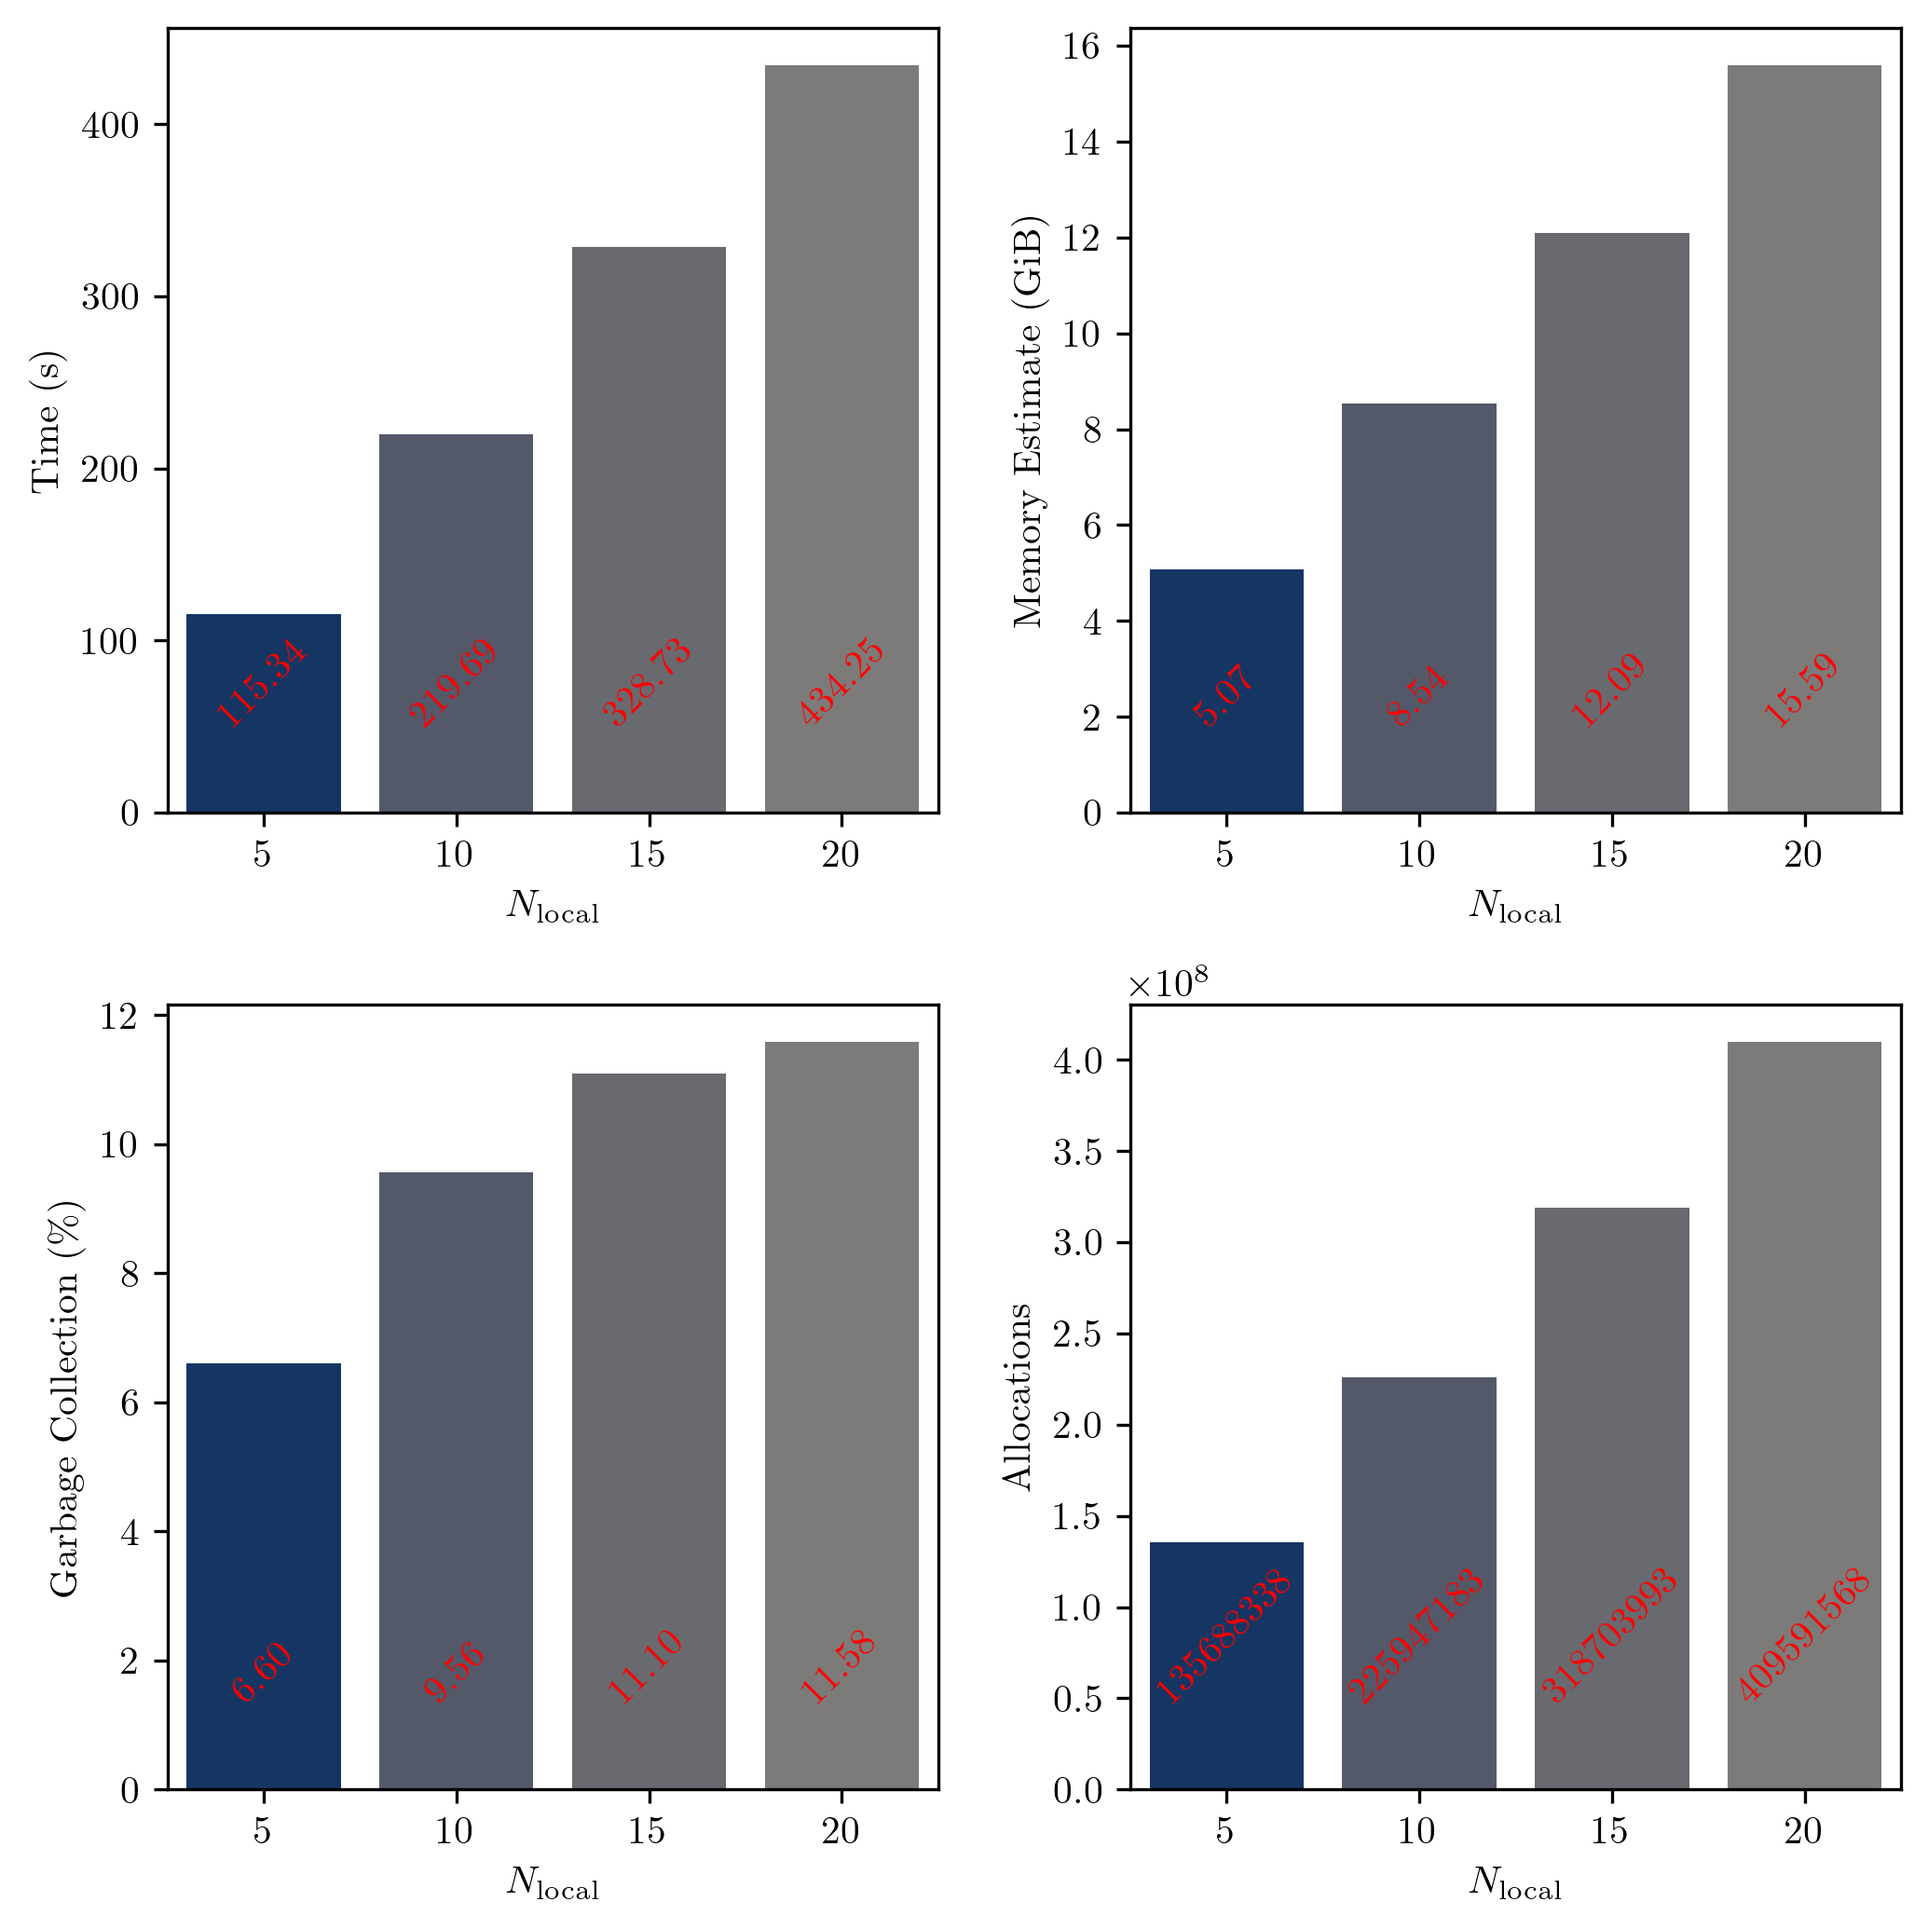
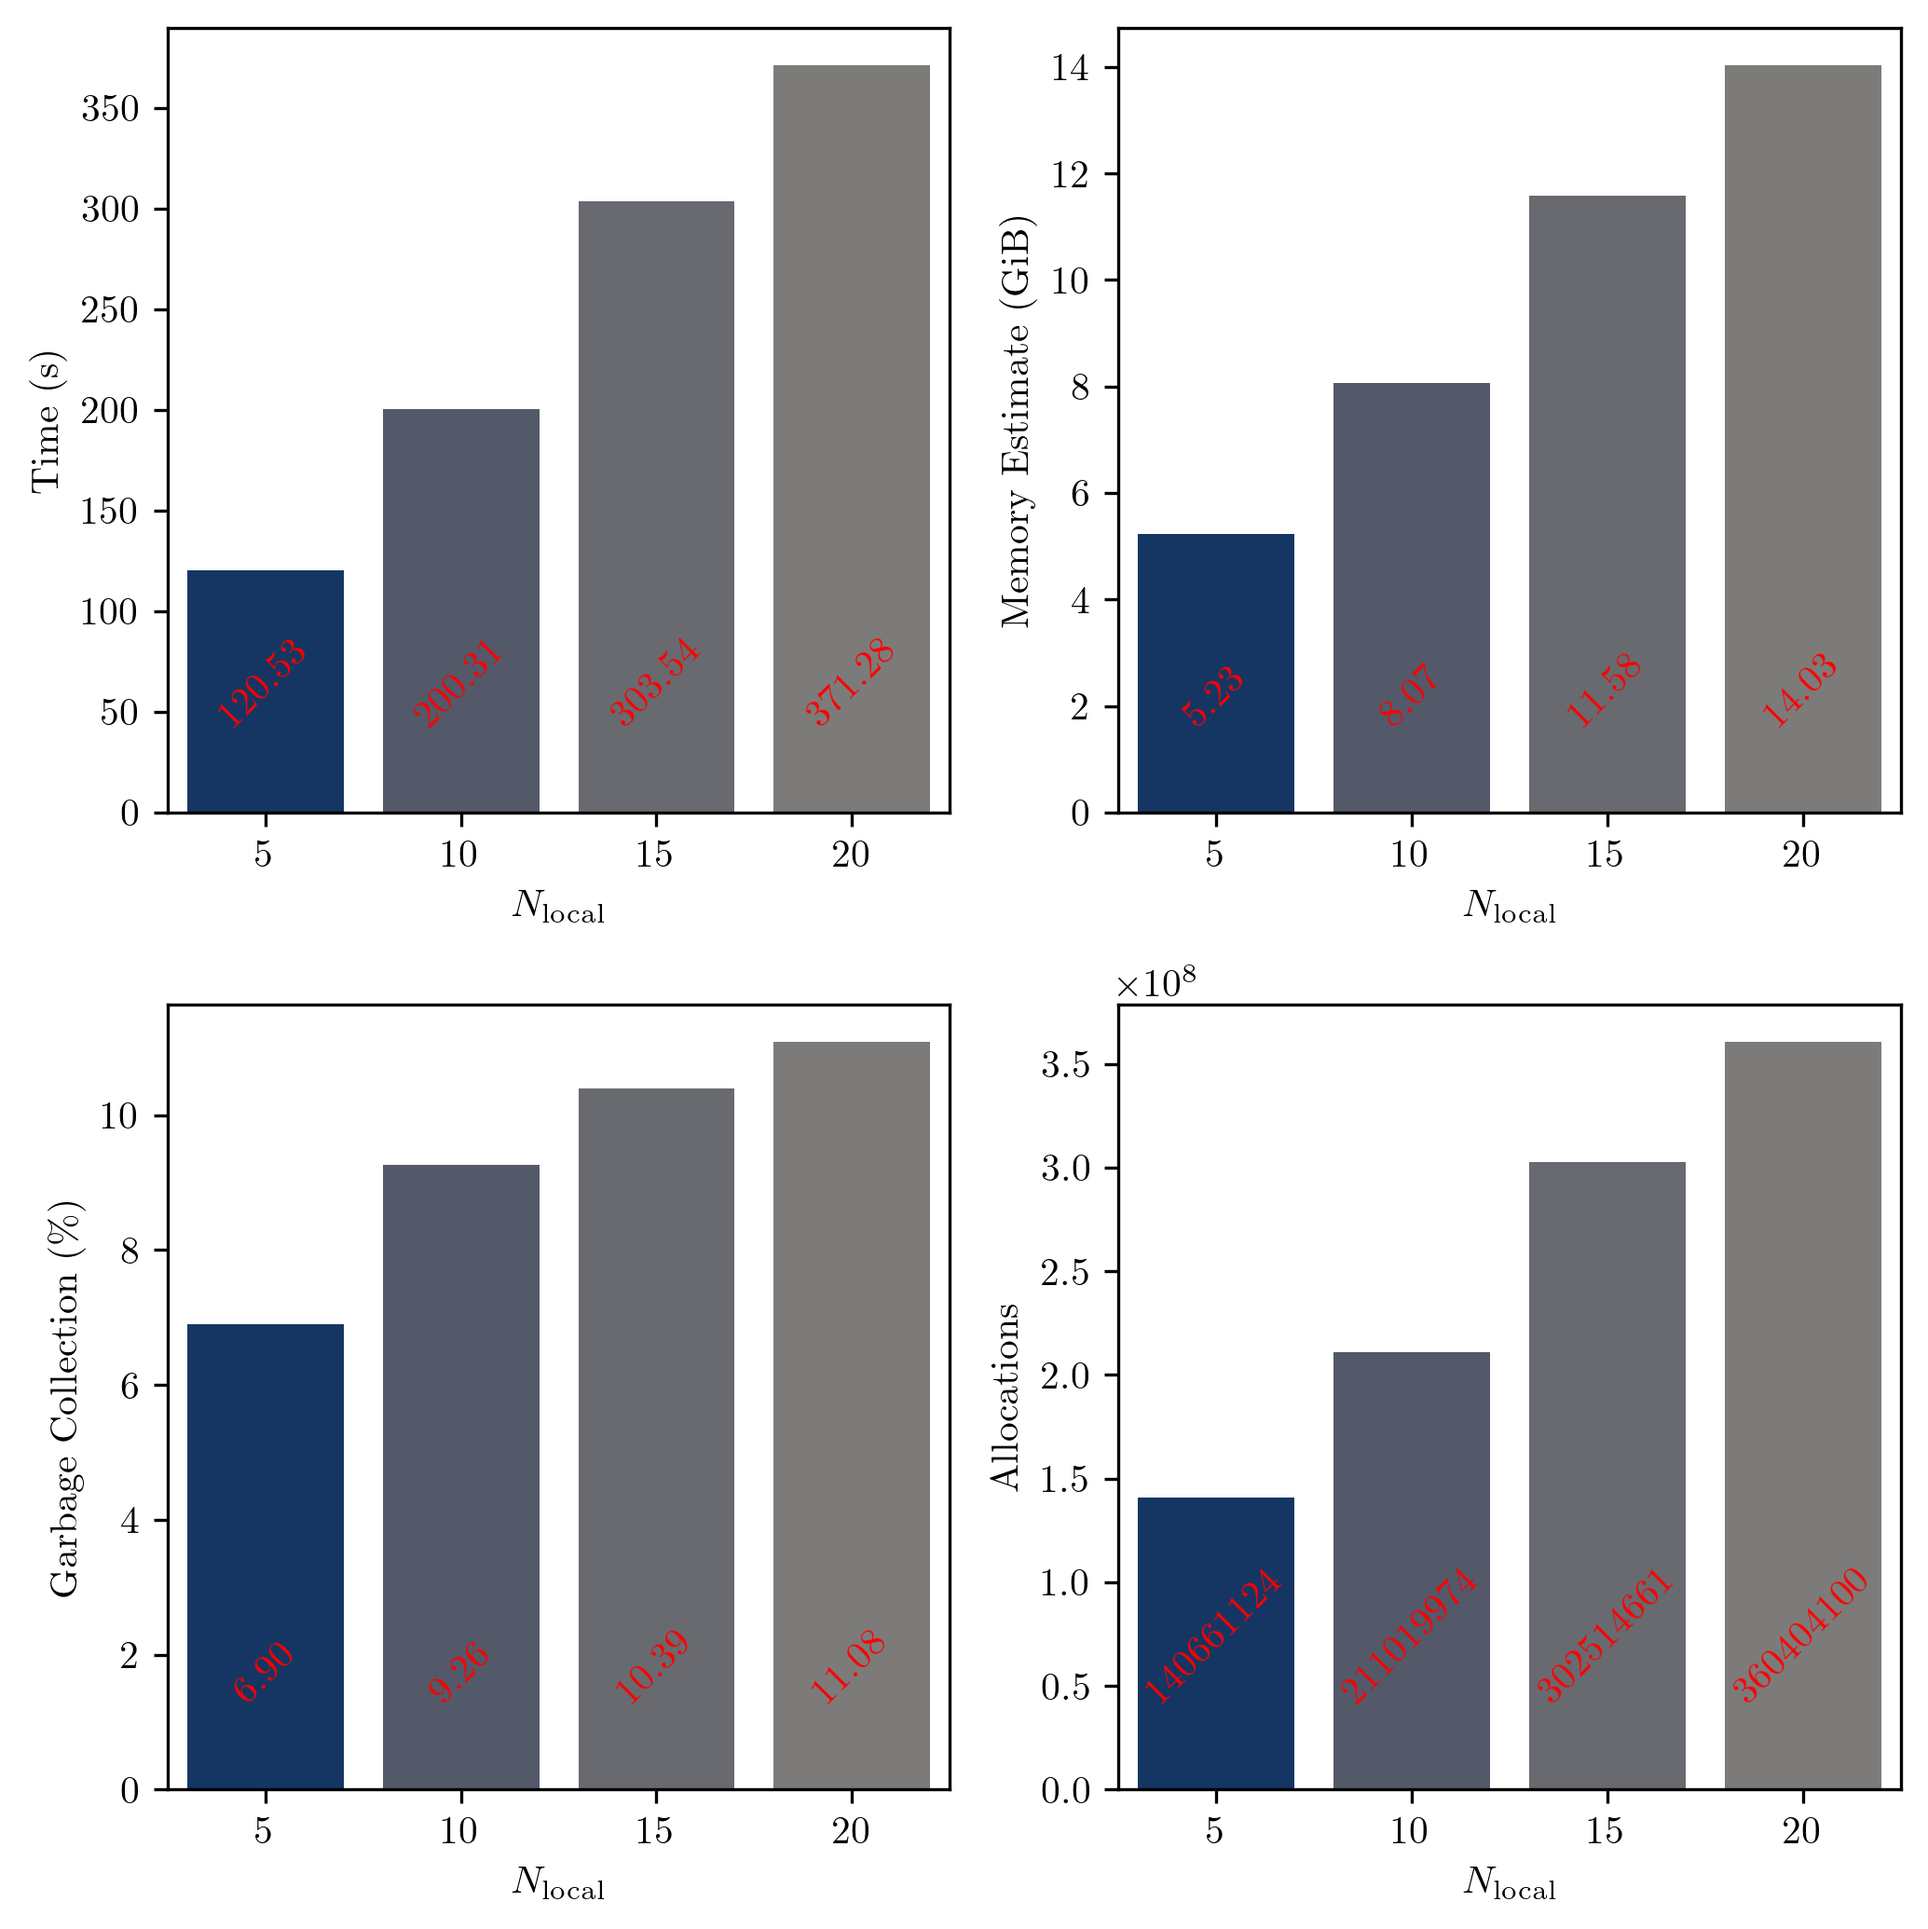
bench

diff --git a/plotting/benchmark/plot_cost.py b/plotting/benchmark/plot_cost.py
@@ -12,18 +12,18 @@ plt.rcParams.update({
 
 latent_dim = pd.DataFrame({
     r"$n_z$" : [10, 20, 40, 80],
-    "Time (s)" : [12.538, 27.069, 52.124, 116.419],
+    "Time (s)" : [11.822, 25.286, 52.460, 115.819],
     "Memory Estimate (GiB)" : [0.765, 1.37, 2.75, 6.11],
-    "Garbage Collection (%)" : [1.23, 1.29, 1.50, 1.50],
-    "Allocations" : [19761865, 39969224, 84700446, 191387478],
+    "Garbage Collection (%)" : [1.21, 1.36, 1.41, 1.57],
+    "Allocations" : [19761865, 39969222, 84700442, 191387481],
 })
 
 mala_steps = pd.DataFrame({
     r"$N_{\text{local}}$" : [5, 10, 15, 20],
-    "Time (s)" : [115.341, 219.694, 328.726, 434.245],
-    "Memory Estimate (GiB)" : [5.07, 8.54, 12.09, 15.59],
-    "Garbage Collection (%)" : [6.60, 9.56, 11.10, 11.58],
-    "Allocations" : [135688338, 225947183, 318703993, 409591568],
+    "Time (s)" : [120.527, 200.315, 303.539, 371.277],
+    "Memory Estimate (GiB)" : [5.23, 8.07, 11.58, 14.03],
+    "Garbage Collection (%)" : [6.90, 9.26, 10.39, 11.08],
+    "Allocations" : [140661124, 211019974, 302514661, 360404100],
 })
 
 keys = [r"$n_z$", r"$N_{\text{local}}$"]
